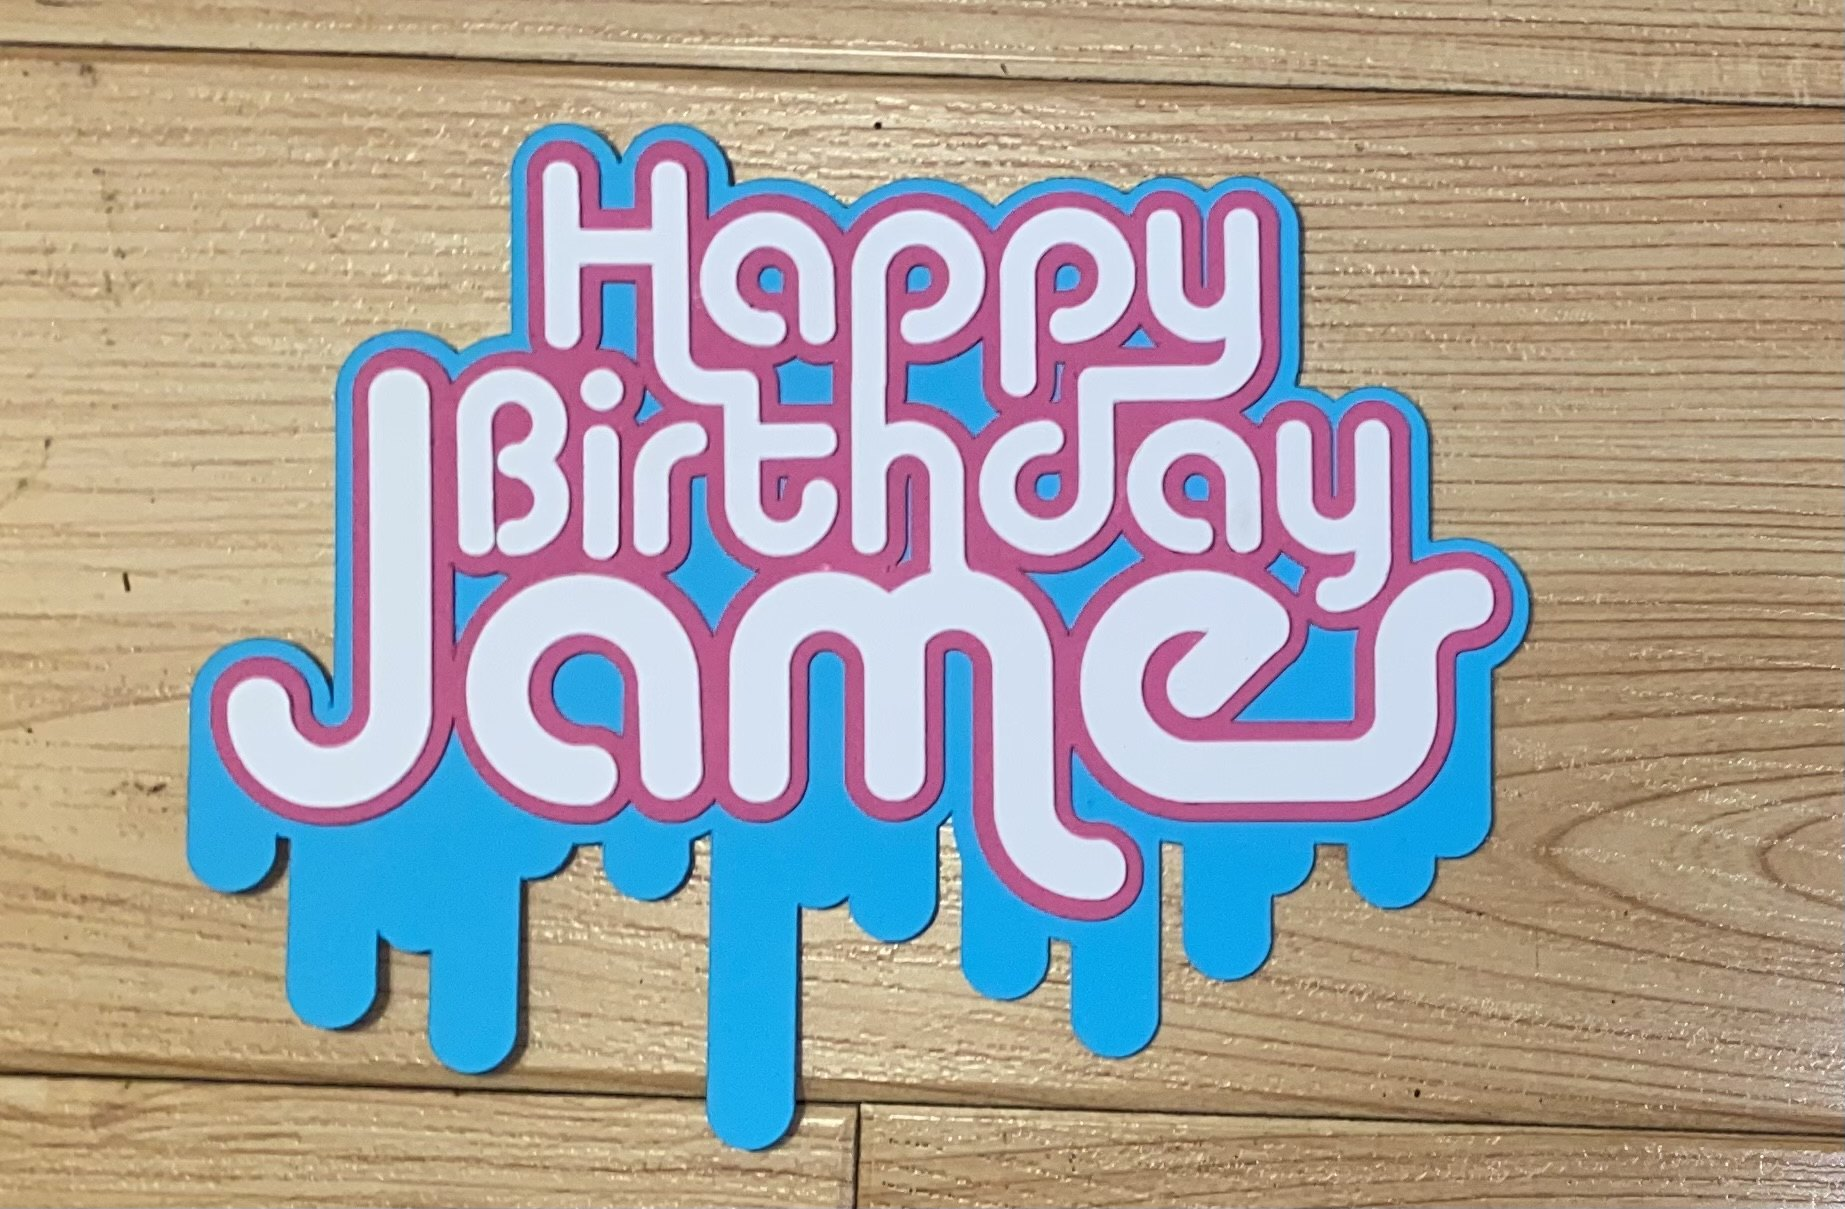
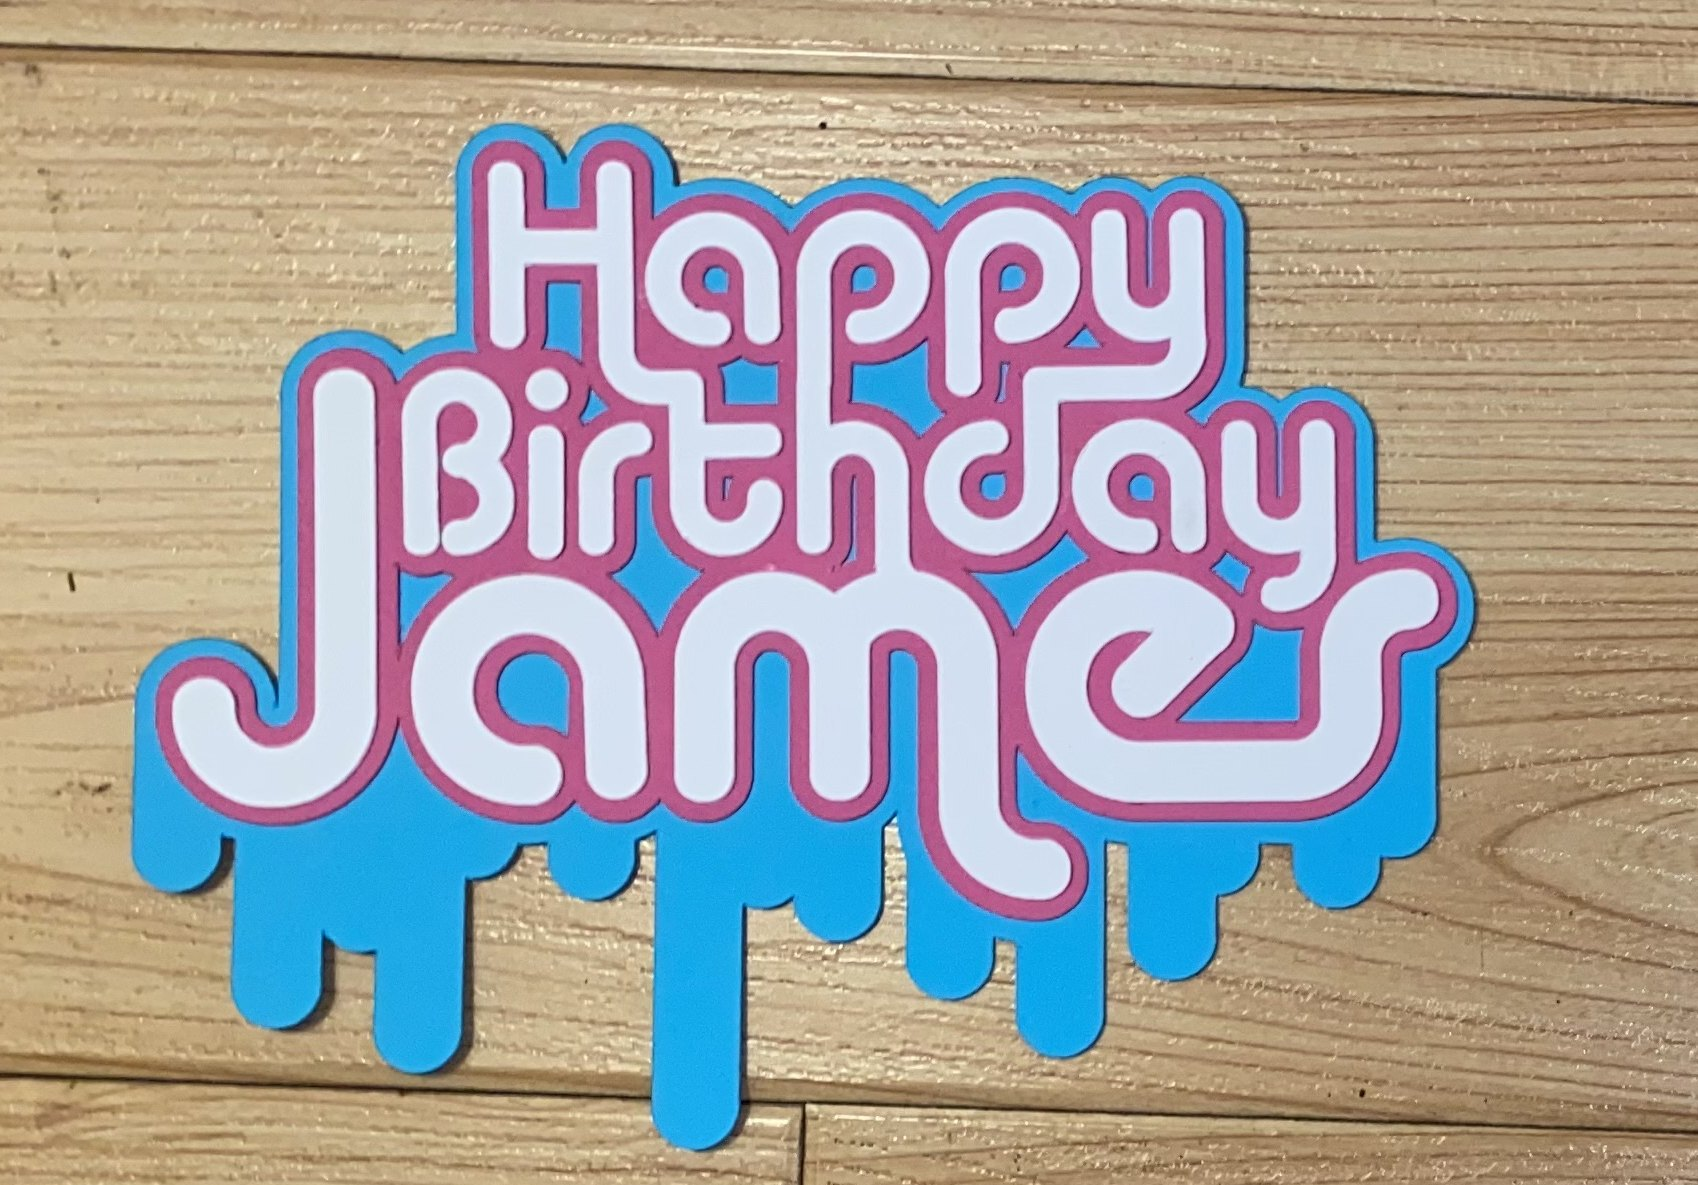
Paper Cards crops

diff --git a/personal/paper-cards/index.html b/personal/paper-cards/index.html
@@ -160,7 +160,7 @@ h1,h2,h3,.sub,.note,.cap,figcaption,.hc,.label,.chip{text-wrap:balance} p,li{tex
 <svg viewBox="0 0 560 60" width="560" height="60" class="sec" style="overflow:visible;"><circle cx="30" cy="30" r="25" fill="none" stroke="#2a211c" stroke-width="1.4"/><line x1="5" y1="30" x2="55" y2="30" stroke="#2a211c" stroke-width="1"/><path d="M59,30 L71,30 L59,9 Z" fill="#fee767"/><text x="30" y="24" class="hc" font-size="13" text-anchor="middle" fill="#2a211c">01</text><text textLength="32" lengthAdjust="spacingAndGlyphs" x="30" y="44" class="hc" font-size="9" text-anchor="middle" fill="#2a211c">MAKING</text><text x="88" y="40" style="font:700 30px Bricolage Grotesque;fill:#2a211c;letter-spacing:-.5px">Draw, cut, layer</text></svg>
 <section class="text w-wide"><p>The lettering is the design work. Cutting is fast. Gluing is slow, one layer at a time with tweezers.</p></section>
 
-<div class="gallery cols-3"><div class="mount"><img src="../../images/paper-craft-cards-2074.jpg" alt="Thank you Jeremiah, finished on the cutting desk next to tweezers" loading="lazy" width="2000" height="1500"></div><div class="mount"><img src="../../images/paper-craft-cards-2119.jpg" alt="Thank you Bree, layered card on the cutting mat" loading="lazy" width="2000" height="2667"></div><div class="mount"><img src="../../images/paper-craft-cards-60456400594.jpg" alt="To the Granny who is perfect in every way: a beach card on the work table" loading="lazy" width="2000" height="2667"></div></div>
+<div class="gallery cols-3"><div class="mount"><img src="../../images/paper-craft-cards-2074.jpg" alt="Thank you Jeremiah, finished on the cutting desk next to tweezers" loading="lazy" width="2000" height="941"></div><div class="mount"><img src="../../images/paper-craft-cards-2119.jpg" alt="Thank you Bree, layered card on the cutting mat" loading="lazy" width="2000" height="1279"></div><div class="mount"><img src="../../images/paper-craft-cards-60456400594.jpg" alt="To the Granny who is perfect in every way: a beach card on the work table" loading="lazy" width="1512" height="1814"></div></div>
 
 <svg viewBox="0 0 560 60" width="560" height="60" class="sec" style="overflow:visible;"><circle cx="30" cy="30" r="25" fill="none" stroke="#2a211c" stroke-width="1.4"/><line x1="5" y1="30" x2="55" y2="30" stroke="#2a211c" stroke-width="1"/><path d="M59,30 L71,30 L59,9 Z" fill="#2655cb"/><text x="30" y="24" class="hc" font-size="13" text-anchor="middle" fill="#2a211c">02</text><text textLength="32" lengthAdjust="spacingAndGlyphs" x="30" y="44" class="hc" font-size="9" text-anchor="middle" fill="#2a211c">THANKS</text><text x="88" y="40" style="font:700 30px Bricolage Grotesque;fill:#2a211c;letter-spacing:-.5px">Thank-you cards</text></svg>
 <div class="gallery cols-3"><div class="mount"><img src="../../images/paper-craft-cards-8019.jpg" alt="Thank you Mindy: bold red and white letters with an atom ornament" loading="lazy" width="2000" height="1500"></div><div class="mount"><img src="../../images/paper-craft-cards-2137.jpg" alt="Thank you Joseph: gold foil lettering on black" loading="lazy" width="2000" height="1500"></div><div class="mount"><img src="../../images/paper-craft-cards-4480.jpg" alt="Thank you Katlain: green rounded lettering with sparkles" loading="lazy" width="2000" height="1556"></div><div class="mount"><img src="../../images/paper-craft-cards-0607.jpg" alt="Thank you Suzan: wavy teal, yellow and orange lettering" loading="lazy" width="1600" height="2134"></div><div class="mount"><img src="../../images/paper-craft-cards-1316.jpg" alt="Thank you Robert: navy card with gold lettering and a handwritten note" loading="lazy" width="2000" height="1500"></div><div class="mount"><img src="../../images/paper-craft-cards-1794.jpg" alt="Thank you MK: a patterned border and tree with a handwritten note" loading="lazy" width="2000" height="1500"></div></div>
@@ -168,9 +168,9 @@ h1,h2,h3,.sub,.note,.cap,figcaption,.hc,.label,.chip{text-wrap:balance} p,li{tex
 <figure class="photo w-wide"><div class="mount"><img src="../../images/paper-craft-cards-8560.jpg" alt="Six thank-you cards in six different lettering styles" loading="lazy" width="1600" height="1200"></div><p class="cap">Six thank-yous, six lettering styles.</p></figure>
 
 <svg viewBox="0 0 560 60" width="560" height="60" class="sec" style="overflow:visible;"><circle cx="30" cy="30" r="25" fill="none" stroke="#2a211c" stroke-width="1.4"/><line x1="5" y1="30" x2="55" y2="30" stroke="#2a211c" stroke-width="1"/><path d="M59,30 L71,30 L59,9 Z" fill="#fe9c15"/><text x="30" y="24" class="hc" font-size="13" text-anchor="middle" fill="#2a211c">03</text><text textLength="32" lengthAdjust="spacingAndGlyphs" x="30" y="44" class="hc" font-size="9" text-anchor="middle" fill="#2a211c">OCCASIONS</text><text x="88" y="40" style="font:700 30px Bricolage Grotesque;fill:#2a211c;letter-spacing:-.5px">Birthdays, holidays and more</text></svg>
-<div class="gallery cols-3"><div class="mount"><img src="../../images/paper-craft-cards-70952521639.jpg" alt="Happy Birthday Mom: gold lettering on black" loading="lazy" width="2000" height="1500"></div><div class="mount"><img src="../../images/paper-craft-cards-8552.jpg" alt="Happy Birthday James: dripping blue and pink lettering" loading="lazy" width="1845" height="1209"></div><div class="mount"><img src="../../images/paper-craft-cards-1652.jpg" alt="Happy Birthday Truman: a cut-paper face signed by the family" loading="lazy" width="2000" height="1500"></div><div class="mount"><img src="../../images/paper-craft-cards-3144.jpg" alt="Happy Father's Day: a round stained-glass card" loading="lazy" width="2000" height="2667"></div><div class="mount"><img src="../../images/paper-craft-cards-3321.jpg" alt="Happy Holidays Clara: gold patterned lettering on black" loading="lazy" width="2000" height="1351"></div><div class="mount"><img src="../../images/paper-craft-cards-3370.jpg" alt="Six snow-globe holiday cards for 2023 in different colors" loading="lazy" width="2000" height="1500"></div></div>
+<div class="gallery cols-3"><div class="mount"><img src="../../images/paper-craft-cards-70952521639.jpg" alt="Happy Birthday Mom: gold lettering on black" loading="lazy" width="2000" height="1589"></div><div class="mount"><img src="../../images/paper-craft-cards-8552.jpg" alt="Happy Birthday James: dripping blue and pink lettering" loading="lazy" width="1698" height="1185"></div><div class="mount"><img src="../../images/paper-craft-cards-1652.jpg" alt="Happy Birthday Truman: a cut-paper face signed by the family" loading="lazy" width="2000" height="1500"></div><div class="mount"><img src="../../images/paper-craft-cards-3144.jpg" alt="Happy Father's Day: a round stained-glass card" loading="lazy" width="2000" height="2014"></div><div class="mount"><img src="../../images/paper-craft-cards-3321.jpg" alt="Happy Holidays Clara: gold patterned lettering on black" loading="lazy" width="2000" height="1084"></div><div class="mount"><img src="../../images/paper-craft-cards-3370.jpg" alt="Six snow-globe holiday cards for 2023 in different colors" loading="lazy" width="2000" height="1500"></div></div>
 
-<div class="gallery cols-3"><div class="mount"><img src="../../images/paper-craft-cards-3055.jpg" alt="UCLA Graduate! A layered graduation headpiece" loading="lazy" width="2000" height="1499"></div><div class="mount"><img src="../../images/paper-craft-cards-0181.jpg" alt="A 2020 graduation thank-you with a cut-paper city" loading="lazy" width="2000" height="1500"></div><div class="mount"><img src="../../images/paper-craft-cards-5256.jpg" alt="Best Wishes Edward: a mid-century card with a starburst" loading="lazy" width="2000" height="1500"></div><div class="mount"><img src="../../images/paper-craft-cards-2821.jpg" alt="I love you: pale blue lettering on clouds" loading="lazy" width="1600" height="2134"></div><div class="mount"><img src="../../images/paper-craft-cards-2954.jpg" alt="A Silly Goose lives here: a door sign with a cut-paper goose" loading="lazy" width="2000" height="1500"></div><div class="mount"><img src="../../images/paper-craft-cards-2461.jpg" alt="Four name signs, each in its own lettering style" loading="lazy" width="2000" height="1500"></div></div>
+<div class="gallery cols-3"><div class="mount"><img src="../../images/paper-craft-cards-3055.jpg" alt="UCLA Graduate! A layered graduation headpiece" loading="lazy" width="2000" height="1499"></div><div class="mount"><img src="../../images/paper-craft-cards-0181.jpg" alt="A 2020 graduation thank-you with a cut-paper city" loading="lazy" width="1814" height="1724"></div><div class="mount"><img src="../../images/paper-craft-cards-5256.jpg" alt="Best Wishes Edward: a mid-century card with a starburst" loading="lazy" width="2000" height="1500"></div><div class="mount"><img src="../../images/paper-craft-cards-2821.jpg" alt="I love you: pale blue lettering on clouds" loading="lazy" width="2000" height="1115"></div><div class="mount"><img src="../../images/paper-craft-cards-2954.jpg" alt="A Silly Goose lives here: a door sign with a cut-paper goose" loading="lazy" width="2000" height="1500"></div><div class="mount"><img src="../../images/paper-craft-cards-2461.jpg" alt="Four name signs, each in its own lettering style" loading="lazy" width="2000" height="1500"></div></div>
 
 <svg viewBox="0 0 560 60" width="560" height="60" class="sec" style="overflow:visible;"><circle cx="30" cy="30" r="25" fill="none" stroke="#2a211c" stroke-width="1.4"/><line x1="5" y1="30" x2="55" y2="30" stroke="#2a211c" stroke-width="1"/><path d="M59,30 L71,30 L59,9 Z" fill="#ff6702"/><text x="30" y="24" class="hc" font-size="13" text-anchor="middle" fill="#2a211c">04</text><text textLength="32" lengthAdjust="spacingAndGlyphs" x="30" y="44" class="hc" font-size="9" text-anchor="middle" fill="#2a211c">MORE PAPER</text><text x="88" y="40" style="font:700 30px Bricolage Grotesque;fill:#2a211c;letter-spacing:-.5px">Beyond cards</text></svg>
 <section class="text w-wide"><p>Same cutter, more than cards: dioramas, coasters, characters and tiny scale furniture.</p></section>
@@ -179,7 +179,7 @@ h1,h2,h3,.sub,.note,.cap,figcaption,.hc,.label,.chip{text-wrap:balance} p,li{tex
 
 <div class="gallery cols-3"><div class="mount"><img src="../../images/paper-craft-cards-00001.jpg" alt="A layered pop-up scene with figures under paper arches" loading="lazy" width="1536" height="1152"></div><div class="mount"><img src="../../images/paper-craft-cards-6756.jpg" alt="Four round coasters: climbing, running, biking and skiing" loading="lazy" width="2000" height="1500"></div><div class="mount"><img src="../../images/paper-craft-cards-3939.jpg" alt="A cut-paper bird character" loading="lazy" width="2000" height="2667"></div></div>
 
-<div class="gallery cols-2"><div class="mount"><img src="../../images/paper-craft-cards-1730.jpg" alt="Tiny cut-paper chairs, assembled at scale" loading="lazy" width="2000" height="1500"></div><div class="mount"><img src="../../images/paper-craft-cards-1717.jpg" alt="A small red and white paper model on a black base" loading="lazy" width="1600" height="2134"></div></div>
+<div class="gallery cols-2"><div class="mount"><img src="../../images/paper-craft-cards-1730.jpg" alt="Tiny cut-paper chairs, assembled at scale" loading="lazy" width="2000" height="1137"></div><div class="mount"><img src="../../images/paper-craft-cards-1717.jpg" alt="A small red and white paper model on a black base" loading="lazy" width="2000" height="1999"></div></div>
 
 <a class="nextp" href="../../entertainment/oobleck/"><span class="hc">Next project →</span><b><span>The Oobleck Coaster</span></b><svg viewBox="0 0 260 12" width="260" height="12" class="" style="overflow:visible;display:block;margin-top:2px"><path d="M-1.5,6.0 Q128.6,6.2 258.8,5.0" fill="none" stroke="#fee767" stroke-width="1.6" stroke-linecap="round" opacity="1"/></svg></a>
 
